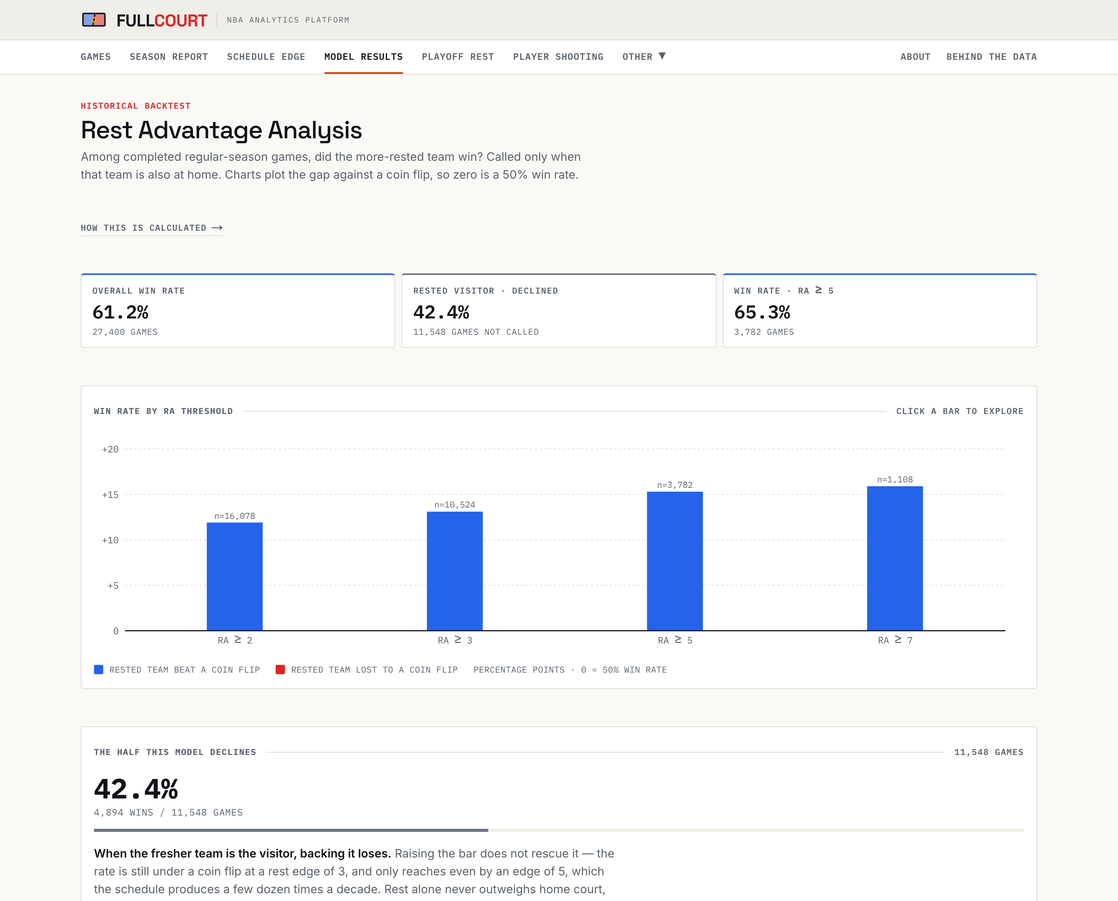
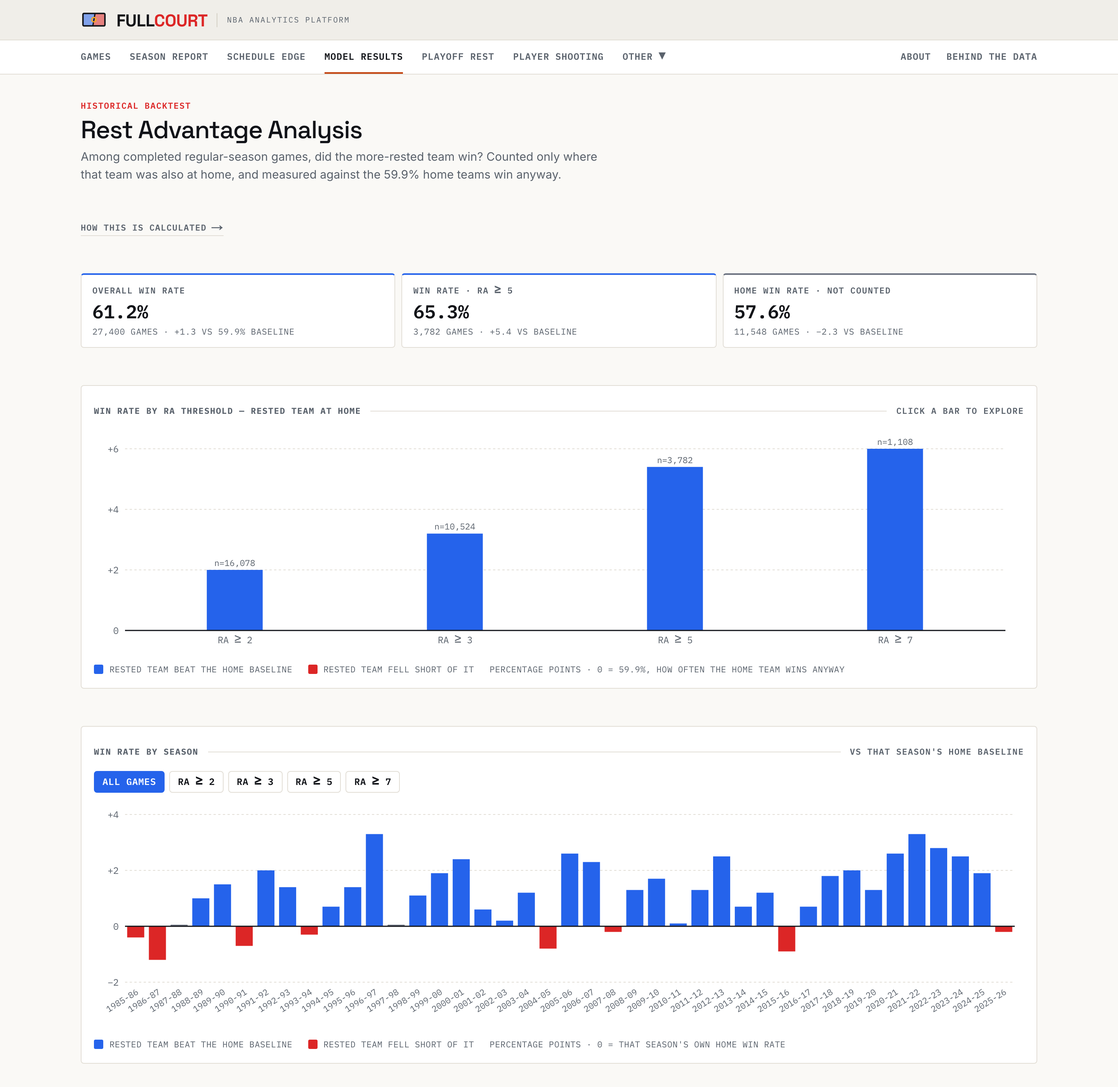
docs: carry the baseline frame through every surface that states it
The rest-advantage figures were quoted in nine committed places and
three of them were wrong in the same way: they were the ml/ harness
slice (2002-03 onward) presented as the site's published population.
Corrected to the measured figures, which are now pinned rather than
retyped.

Two claims are retired everywhere rather than restated:

  "rest alone never outweighs home court at any magnitude" — an
  absolute on a pooled 41-season rate that has drifted; a rested road
  team is near even over the last five seasons.

  "no threshold rescues it" — false as written. The road row reaches
  even at a gap of 6 and clears it at 7.

ADR 0006 gets a dated addendum rather than an in-place edit. Its own
table is correct for what the ADR decided — the fit floor is 2002 by
ADR 0003 — so the record stands and the addendum says what the figures
do and do not cover, and which two sentences did not survive.

CLAUDE.md now states the venue-baseline rule as a project rule, because
"do not reintroduce a 50% zero line" is exactly the kind of thing a
future currency pass would otherwise undo. GLOSSARY gains the three
terms this whole concept never had.

Both stale screenshots regenerated. analysis.png was showing a card
deleted two commits ago and bars measured from a coin flip; games.png
was showing the pre-bf2f459 matchup sentence. Alt text rewritten for
both from the actual captures. screenshots.mjs takes a page filter now,
[…]

diff --git a/scripts/backfill_predictions.ts b/scripts/backfill_predictions.ts
@@ -3,10 +3,10 @@
  * completed regular-season games that have fatigue scores.
  *
  * Prediction rule: the more rested team is predicted to win, but only when that team is
- * also the home side. A rested visitor is not called — rest alone never outweighs home
- * court at any magnitude the NBA schedule produces, and the old rule's road picks were
- * measured at 44.39% across 7,224 games. `isCalledSide` holds the rule and the evidence;
- * see ADR 0006.
+ * also the home side. A rested visitor is not picked — that row measures 42.4% across 11,548
+ * games, and folding home court into the score instead lands below simply backing the home
+ * team every time (96.5% coverage at 59.7%, against 59.9%). `isCalledSide` holds the rule and
+ * the evidence; see ADR 0006 and its 2026-08-06 addendum.
  *
  * Games with |differential| < 0.5 are skipped as neutral, as before.
  *

diff --git a/README.md b/README.md
@@ -18,18 +18,23 @@
 FullCourt quantifies how **travel, rest, and schedule density** shape NBA outcomes. Its flagship model assigns every team a multi-factor **fatigue score**, derives a **rest advantage** for each matchup, and backtests it against every NBA season since 1985-86.
 
 > **The finding:** where the model makes a call, the more-rested team wins the majority of games —
-> and the edge widens once the rest-advantage gap reaches **5+ points**. The call is deliberately
-> one-sided: since 2026-08-02 the model declines a game when the fresher team is the *visitor*,
-> because backing a rested road team lost, and no threshold rescued it. Every rate is
-> computed live from the database rather than typed here; as the screenshots below show, that ran
-> **61.2%** overall and **65.3%** at a 5+ gap, with the declined half published beside it at
-> **42.4%**.
+> and the gain grows as the rest-advantage gap widens, up to about **5 points**, past which it is
+> flat. The call is deliberately one-sided: since 2026-08-02 the model counts a game only when the
+> fresher team is also at home, because a rested road team still loses more often than it wins and
+> folding home court into the score instead performs worse than simply backing the home team.
+> Every rate is computed live from the database rather than typed here; as the screenshots below
+> show, that ran **61.2%** overall and **65.3%** at a 5+ gap, with the other row published beside
+> it at **42.4%**.
 >
-> Two samples get quoted for that declined half and they are not the same measurement: the
-> **44.4% across 7,224 games** in the decision record is every *decidable* game from 2002-03 on,
-> the window the weight-fitting harness was run over ([ADR 0006](docs/adr/0006-fatigue-weights-were-fitted-and-the-model-was-not-changed.md));
-> the **42.4% across 11,548** on `/analysis` is the full history back to 1985-86. Both say the
-> same thing, which is why the rule is a rule.
+> Read both against a venue baseline, never against a coin flip. Home teams win **59.9%** of all
+> games regardless of rest and road teams **40.1%**, so those rates are worth **+1.3** and
+> **+2.3** points respectively — the part attributable to rest. `/analysis` plots against that
+> baseline for exactly this reason.
+>
+> A **44.4% across 7,224 games** figure appears in [ADR 0006](docs/adr/0006-fatigue-weights-were-fitted-and-the-model-was-not-changed.md)
+> and its 2026-08-06 addendum. It is the *2002-03-onward* harness slice, not the published
+> population, and it should not be quoted as the site's figure. `src/lib/rest-split-facts.ts`,
+> pinned against a generated artifact, holds the current numbers.
 
 🔗 **Live demo:** https://fullcourt-nba.vercel.app &nbsp;·&nbsp; **Code:** https://github.com/mhju0/fullcourt
 
@@ -59,7 +64,7 @@ Eight surfaces, not nine — `/referees` is deliberately held back and has no sc
 differential, and a confidence read. Every rest-advantage number carries the historical hit
 rate and sample size of its class; matchups the model calls neutral get no claim at all.
 
-<img src="docs/screenshots/games.png" alt="The Games page for Sunday, April 12, 2026, with a BY DATE / UPCOMING toggle set to BY DATE. Three tiles read 15 games on this date, an average rest advantage of 0.8, and 0 high-confidence games. A Scope panel below holds the 2025-26 season with month buttons from October to April, April selected, and day chips 1 through 12 each captioned with its game count, the 12th selected. A banner reads that the 2025-26 season is complete and the final slate is showing, linking to the full season report. Two matchup cards follow. The first, Brooklyn Nets 101 at Toronto Raptors 136, shows fatigue bars of 3.3 and 4.4 and a rest-advantage panel giving BKN plus 1.1 with a MED CONF badge; because Brooklyn are the rested side and are the visitors, the card reads that this model declines a rested visitor, backing one having won 42.4% of the time from 11,548 games. The second, Chicago Bulls 128 at Dallas Mavericks 149, shows fatigue scores of 4.4 and 4.6, is scored EVEN 0.2 with a NEUTRAL badge, and carries no such sentence." width="900" />
+<img src="docs/screenshots/games.png" alt="The Games page for Sunday, April 12, 2026, with a BY DATE / UPCOMING toggle set to BY DATE. Three tiles read 15 games on this date, an average rest advantage of 0.8, and 0 high-confidence games. A Scope panel below holds the 2025-26 season with month buttons from October to April, April selected, and day chips 1 through 12 each captioned with its game count, the 12th selected. A banner reads that the 2025-26 season is complete and the final slate is showing, linking to the full season report. Two matchup cards follow. The first, Brooklyn Nets 101 at Toronto Raptors 136, shows fatigue bars of 3.3 and 4.4 and a rest-advantage panel giving BKN plus 1.1 with a MED CONF badge; because Brooklyn are the rested side and are the visitors, the card reads that when the fresher team is the visitor the home team has still won 57.6% of the time, from 11,548 games. The second, Chicago Bulls 128 at Dallas Mavericks 149, shows fatigue scores of 4.4 and 4.6, is scored EVEN 0.2 with a NEUTRAL badge, and carries no such sentence." width="900" />
 
 **Season Report — one season end to end.** How that year's rest call scored against the
 all-season norm, which teams actually converted a rest edge into wins, and what the schedule cost
@@ -75,11 +80,12 @@ the page.
 <img src="docs/screenshots/schedule.png" alt="Schedule Disparity for 2025-26, marked final with 1,214 of 1,230 games compared. A summary strip reads most favored plus 21 (Utah Jazz), least favored minus 17 (Boston Celtics), a spread of 38 edge games best to worst, and 942 games with an edge of which 541 were big (1.5+). Below it all 30 teams are ranked as horizontal bars diverging from a zero line, blue to the right for a favorable edge and red to the left for an unfavorable one, from Utah at plus 21 and Cleveland at plus 18, down through Sacramento at exactly zero, to Houston at minus 16 and Boston at minus 17. The two altitude teams sit high — Utah first and Denver fifth at plus 11 — because visitors to thin air carry more fatigue. A header note states the season is final with 1,214 of 1,230 games compared." width="900" />
 
 **Model Results — the full-history backtest behind the headline finding.** Win rate by rest-advantage
-threshold, plotted as the gap against a coin flip in percentage points: zero is a 50% win
-rate, so the bar's length is the measured edge. Slices the model gets backwards hang below
-the line in red.
+threshold, plotted as the gap against **what that side wins anyway** in percentage points: zero is
+the home baseline, not a coin flip, because every game counted here is one the rested team played
+at home. The bar's length is the part rest accounts for. Slices below the baseline hang under the
+line in red.
 
-<img src="docs/screenshots/analysis.png" alt="Rest Advantage Analysis. The intro reads that among completed regular-season games the model asks whether the more-rested team won, and is called only when that team is also at home. A HOW THIS IS CALCULATED link sits below it. Three summary tiles read an overall win rate of 61.2% across 27,400 games, a RESTED VISITOR · DECLINED figure of 42.4% across 11,548 games not called, and 65.3% at a rest advantage of 5 or more across 3,782 games. Below them, win rate by rest-advantage threshold is drawn as deviation columns measured from a 50% coin flip: four blue bars rise from a zero line, growing left to right from RA at least 2 to RA at least 7, each labelled with its sample size — 16,078, 10,524, 3,782 and 1,108 games. A legend states that blue means the rested team beat a coin flip and red means it lost to one. A final card, THE HALF THIS MODEL DECLINES, shows 42.4% from 4,894 wins in 11,548 games and explains that backing a fresher visitor loses, that raising the bar does not rescue it, and that rest alone never outweighs home court." width="900" />
+<img src="docs/screenshots/analysis.png" alt="Rest Advantage Analysis. The intro reads that among completed regular-season games the model asks whether the more-rested team won, counted only where that team was also at home, and measured against the 59.9% home teams win anyway. A HOW THIS IS CALCULATED link sits below it. Three summary tiles read an overall win rate of 61.2% across 27,400 games at plus 1.3 versus the 59.9% baseline; 65.3% at a rest advantage of 5 or more across 3,782 games at plus 5.4; and a HOME WIN RATE, NOT COUNTED figure of 57.6% across 11,548 games at minus 2.3, the games where the rested team was the visitor. Below them, win rate by rest-advantage threshold is drawn as deviation columns measured from the home baseline rather than from a coin flip: four blue bars rise from a zero line at plus 2, plus 3.2, plus 5.4 and plus 6, labelled with sample sizes 16,078, 10,524, 3,782 and 1,108 games. A legend states that blue means the rested team beat the home baseline, red means it fell short, and that zero is 59.9%, how often the home team wins anyway. A second chart plots all forty-one seasons against each season’s own home baseline, mostly small blue bars between zero and plus 3.5 with a handful of red ones below the line." width="900" />
 
 **Playoff Rest — what surviving a long series costs the round after.** The page leads with the
 argument, not the bracket: every playoff game after Game 1 is played on equal rest by
@@ -260,8 +266,9 @@ one exists.
 
 Two changes followed on **2026-08-02**, both on measurement rather than taste. The model
 **stopped calling a game when the fresher team is the visitor** — backing a rested road team ran
-44.4% across 7,224 games and no threshold rescued it, so rest alone never outweighs home court.
-That half is published on `/analysis` as the evidence rather than quietly dropped. And
+42.4% across 11,548 games, and folding home court into the score instead covers 96.5% of games at
+59.7%, below the 59.9% from simply backing the home team every time. That row is published on
+`/analysis` as its own row rather than quietly dropped. And
 `ALTITUDE_MULTIPLIER` rose **1.15 → 1.29**, the first ratified coefficient ever changed on
 evidence: measured on final margin, altitude is worth 1.358 points against a back-to-back's
 1.759, a ratio of 0.772 where the model was charging 0.405.

diff --git a/docs/adr/0006-fatigue-weights-were-fitted-and-the-model-was-not-changed.md b/docs/adr/0006-fatigue-weights-were-fitted-and-the-model-was-not-changed.md
@@ -255,6 +255,50 @@ The suspension of the no-fitting rule ends here. `fatigue.ts` coefficients remai
 ratified; this ADR is the record that fitting them was tried, under a protocol built to make the
 answer trustworthy, and that the answer was "the weights are not the problem".
 
+## Addendum — 2026-08-06: the away-pick evidence was re-measured, and two of its sentences do not survive
+
+Everything above stands as the record of what was decided on 2026-08-02 and why. This addendum
+corrects the *evidence* the away-pick section rests on. The decision it produced is unchanged;
+two of the sentences justifying it are not.
+
+**The table above is the 2002-03-onward slice, not the published population.** That was correct
+for this ADR — the fit floor is 2002 (ADR 0003) — but the site publishes from 1985-86, and the
+figures were quoted onward into the method page, the README, the roadmap and a code docblock as
+though they were the site's. Re-measured over the published population by
+`scripts/measure_uncalled_half.ts`, generated into `ml/rest_split_facts.json` and pinned by
+`src/lib/__tests__/rest-split-facts.test.ts`:
+
+| rested road team | n | won |
+|---|---|---|
+| any gap | 11,548 | 42.4% |
+| gap ≥ 3 | 2,056 | 43.6% |
+| gap ≥ 5 | 342 | 46.2% |
+| gap ≥ 6 | 108 | 50.0% |
+| gap ≥ 7 | 26 | 61.5% |
+
+**"Rest alone never outweighs home court at any magnitude the NBA generates" is retired.** It is
+an absolute resting on a pooled 41-season rate, and the rate has drifted: a rested road team won
+42.4% across all seasons, 47.7% across the last ten, and 49.3% across the last five. Home-court
+advantage has fallen league-wide over the same period — the per-season home win rate runs from
+67.9% in 1987-88 to 54.3% in 2023-24 — so the *lift* may be unchanged while the raw rate moves.
+That is exactly why an absolute was the wrong shape for the claim.
+
+**"No threshold rescues it" is also retired**, for a simpler reason: it is false as written. The
+row reaches even at a gap of 6 and clears it at 7. Both rungs are tiny, and the honest reading is
+the schedule running out of examples rather than a signal switching on — but the sentence claimed
+something the data does not say, and the ladder it was written from stopped at 5.
+
+**What still holds, and is the actual load-bearing argument.** Folding home court into the score
+and letting the combined number pick covers 96.5% of games at 59.7% — *below* the 59.9% you get
+by backing the home team in every one of the 47,143. Adding a constant to both sides creates no
+information. (The 58.39%/776 figures above are the 2002-03 slice; the full-population equivalents
+are 59.7% and 752.) The rule survives; only its justification needed re-basing.
+
+**Related, and larger than this ADR:** the same re-measurement established that every rate the
+site published was stated against a coin flip while every game in it was a home game. `/analysis`
+moved to a venue baseline on 2026-08-06. That is a presentation decision rather than a model one,
+so it is not an amendment here — but it is the reason this correction was found.
+
 ## Related
 
 - `docs/adr/0003-fatigue-inputs-limited-to-espn-era.md` — why the fit floor is 2002.

diff --git a/docs/GLOSSARY.md b/docs/GLOSSARY.md
@@ -16,8 +16,20 @@ _Avoid_: fatigue advantage, rest score
 A matchup whose absolute rest advantage is below `0.5`, so neither team receives a prediction from this metric. An absolute value of exactly `0.5` is a call, not neutral.
 _Avoid_: tie
 
+**Rested team at home**:
+Games where the more-rested team is also the home team. The site's published rest-advantage rate is measured on these and on nothing else. In code the predicate is `isCalledSide` (`src/lib/rest-advantage-evidence.ts`), which keeps its name on purpose — the vocabulary here is user-facing only, and a doc-currency pass must not "fix" the code to match the copy.
+_Avoid_: called games, the call, qualified games
+
+**Rested team on the road**:
+Games where the more-rested team is the visitor. Counted and published as their own row against a road baseline, never pooled into the published rate. Not a filter on the evidence: both rows appear on `/analysis` and on the method page.
+_Avoid_: rested visitor, declined games, the half this model declines
+
+**Baseline**:
+How often a side wins from that venue regardless of rest — 59.9% at home, 40.1% on the road, over every published game. Every rest-advantage rate is stated against it rather than against a coin flip, because every game the site publishes a rate for is a home game. Not a constant across time: the per-season figure runs from 67.9% in 1987-88 to 54.3% in 2023-24, which is why the season chart uses each season's own.
+_Avoid_: home-court advantage — that is the ~20-point spread between the two baselines, not either one of them
+
 **Historical backtest**:
-The regular-season evaluation of whether the team favored by rest advantage won. It excludes the **2019-20 Orlando bubble** — the 88 games played at a single site from 30 July to 11 October 2020 — and nothing else of that season; its 971 pre-suspension games are in. 2020-21 and both lockout seasons are included: short is fine, interrupted is not. Withholding a *whole* season is a separate rule belonging to Schedule Edge alone (see **Truncated season**).
+The regular-season evaluation of whether the team favored by rest advantage won, **on the games where that team was also at home** — every headline figure on the site is measured on that row alone, and read against the **baseline** rather than against 50%. It excludes the **2019-20 Orlando bubble** — the 88 games played at a single site from 30 July to 11 October 2020 — and nothing else of that season; its 971 pre-suspension games are in. 2020-21 and both lockout seasons are included: short is fine, interrupted is not. Withholding a *whole* season is a separate rule belonging to Schedule Edge alone (see **Truncated season**).
 _Avoid_: prediction accuracy test
 
 **Playoff Predictor**:

diff --git a/docs/FRONTEND.md b/docs/FRONTEND.md
@@ -839,12 +839,21 @@ onboarding dialog keeps its explicit amber rings, which are a real visible indic
 
 ### Charts (`analysis-content.tsx`)
 
-Both backtest bar charts are **deviation columns**: `toDeviation(winPct)` plots
-`winPct - 50` in percentage points, so **zero is the coin flip** and the bar's length is the
-measured edge itself. `deviationFill()` colors the two poles — `--term-blue` above,
-`--term-red` below, `--term-neutral` at exactly zero — and `ReferenceLine y={0}` is drawn
+Both backtest bar charts are **deviation columns**: `toDeviation(winPct, baselinePct)` plots
+`winPct - baselinePct` in percentage points, so **zero is the venue baseline** and the bar's
+length is the part rest accounts for. `deviationFill()` colors the two poles — `--term-blue`
+above, `--term-red` below, `--term-neutral` at exactly zero — and `ReferenceLine y={0}` is drawn
 **after** the bars as solid `--term-text` at 1.5px. That rule is the axis, not an annotation,
 which is why it is the one assertive line on the chart.
+
+**The baseline is not 50, and this is load-bearing** (2026-08-06). Every game these charts count
+is one the more-rested team played at home, and home teams win ~59.9% of all games regardless of
+rest — so a coin-flip zero credited the model with about ten points of home court it did not
+produce. The threshold chart passes `data.venueBaseline.homeWinPct`; the season chart passes each
+season's own `homeBaselinePct`, because home court ran from 67.9% in 1987-88 to 54.3% in 2023-24
+and one fixed line would misread both ends. Both legends name their zero, and both tooltips print
+the baseline on the same line as the deviation so the two cannot be read apart.
+`e2e/analysis.spec.ts` asserts the zero-line copy and that no surface says `COIN FLIP`.
 
 `deviationScale()` derives a signed domain plus evenly spaced `ticks` from the data.
 Both are required: Recharts left to improvise emitted 0/20/40/60 **plus an orphan 70**, and

diff --git a/CLAUDE.md b/CLAUDE.md
@@ -9,10 +9,21 @@ was dropped rather than copied, because that file had drifted from the code on e
 
 FullCourt models how NBA **travel, rest, and schedule density** affect game outcomes. Each team
 in a matchup gets a **fatigue score**; the differential is the **rest advantage**; the backtest
-asks whether the more-rested team actually won — counting only the games the site **calls**, which
-since 2026-08-02 means the more-rested team is also at home (`isCalledSide`,
-`src/lib/rest-advantage-evidence.ts`). Rest alone never outweighs home court at any magnitude the
-NBA produces, so a rested visitor is declined rather than picked.
+asks whether the more-rested team actually won — counting only the games where that team is also
+at home (`isCalledSide`, `src/lib/rest-advantage-evidence.ts`, since 2026-08-02). The games where
+the rested team is the visitor are counted as their own row and published in full, never pooled
+into the headline.
+
+**Every published rate is read against a venue baseline, not against a coin flip** (since
+2026-08-06). Home teams win ~59.9% of all games regardless of rest, so a headline of 61.2%
+plotted against 50% credited the model with roughly ten points of home court it did not produce.
+`AnalysisResponse.venueBaseline` carries it, and the season chart uses each season's own, because
+home court ran from 67.9% in 1987-88 to 54.3% in 2023-24. Do not reintroduce a 50% zero line.
+
+Two claims the site used to publish were measured and retired on 2026-08-06 — *"rest alone never
+outweighs home court at any magnitude"* and *"no threshold rescues it"*. Both were absolutes
+resting on a pooled 41-season rate. Do not restate either; `src/lib/rest-split-facts.ts` and its
+test hold what replaced them.
 
 - Live: https://fullcourt-nba.vercel.app · Repo: https://github.com/mhju0/fullcourt
 - Headline figures are computed live from the database and rendered on the site. Do not hand-type

diff --git a/docs/ROADMAP.md b/docs/ROADMAP.md
@@ -49,11 +49,16 @@ added alongside it.
 
 - **Rest Advantage** — the flagship regular-season fatigue model, historical backtest, game
   explorer, and upcoming-game edge view. **The model no longer calls a game when the fresher
-  team is the visitor** (2026-08-02): backing a rested road team measured 44.4% across 7,224
-  games and no threshold rescues it, so rest alone never outweighs home court. The declined half
-  is published on `/analysis` as the evidence rather than dropped. Same day, `ALTITUDE_MULTIPLIER`
-  rose 1.15 → 1.29, the first ratified coefficient changed on measurement. See
-  [ADR 0006](adr/0006-fatigue-weights-were-fitted-and-the-model-was-not-changed.md).
+  team is the visitor** (2026-08-02): backing a rested road team measures 42.4% across 11,548
+  games, and folding home court into the score instead covers 96.5% of games at 59.7% — below
+  the 59.9% from backing the home team every time. That row is published on `/analysis` as its
+  own row rather than dropped. Same day, `ALTITUDE_MULTIPLIER` rose 1.15 → 1.29, the first
+  ratified coefficient changed on measurement.
+  **Every published rate is read against a venue baseline rather than a coin flip**
+  (2026-08-06): home teams win 59.9% of all games regardless of rest, so the 61.2% headline is
+  worth +1.3 points, not +11.2. See
+  [ADR 0006](adr/0006-fatigue-weights-were-fitted-and-the-model-was-not-changed.md) and its
+  2026-08-06 addendum.
 - **Availability Cost** — what a missing rotation player costs, in the same points of margin as
   the schedule terms: losing a team's best player is worth 2.86, against home court's 2.82.
   Retrospective by construction, so no live lineup feed and no database table — a generated

diff --git a/docs/API.md b/docs/API.md
@@ -175,13 +175,23 @@ the `predictions` table.**
   re-read and re-reduced the whole set. The cache is per server instance and bounded, because
   `seasonMinRA` arrives from a query string.
 - **Success:** `{ data: AnalysisResponse, error: null }`:
-  - `totalGames`, `overallWins`, `overallWinRate`
+  - `totalGames`, `overallWins`, `overallWinRate` — the games where the rested team was **also
+    at home**, which is narrower than the population on both counts
   - `thresholds: ThresholdBucket[]` (one per `[2,3,5,7]`: `threshold, games, restedTeamWins,
     winPct`)
   - `homeAwayBreakdown` (`homeTeamMoreRested` / `awayTeamMoreRested`: `games, restedTeamWins,
     winPct`)
-  - `seasonWinRates` (per season: `season, games, restedTeamWins, winPct`)
+  - `venueBaseline` (`games, homeWins, homeWinPct, roadWinPct`)
+  - `seasonWinRates` (per season: `season, games, restedTeamWins, winPct, homeBaselinePct`)
 - All `winPct` values are 0–100 with one decimal.
+- **`venueBaseline` counts a wider population than everything else in the payload** (added
+  2026-08-06). It is tallied over every scored game — including the neutral ones the rest
+  figures drop and the road-rested ones the headline does not publish — because it answers
+  "what does this side win *anyway*", and a baseline drawn from the same games as the numerator
+  would already carry the effect it exists to subtract. `roadWinPct` comes from the counts, not
+  from `100 − homeWinPct`. `seasonWinRates[].homeBaselinePct` is the same figure per season,
+  which is not a constant: it runs from 67.9% in 1987-88 to 54.3% in 2023-24.
+  Every rate on `/analysis` is rendered against these rather than against 50%.
 
 ---
 

diff --git a/docs/TESTING_AND_CICD.md b/docs/TESTING_AND_CICD.md
@@ -163,9 +163,11 @@ back on expand.
 >   regression to per-month fetching fails rather than passing quietly; the other steps the
 >   arrows past the end of December and asserts the `JAN` tab takes `aria-pressed="true"`,
 >   covering the derived month across a boundary.
-> - **`analysis.spec.ts`** — terminal markup: heading "Rest Advantage Analysis" plus the
->   section dividers "WIN RATE BY RA THRESHOLD", "HOME TEAM MORE RESTED", and
->   "WIN RATE BY SEASON" (no `text-7xl` hero).
+> - **`analysis.spec.ts`** — terminal markup: heading "Rest Advantage Analysis", the
+>   "HOME WIN RATE · NOT COUNTED" tile, and the section dividers "WIN RATE BY RA THRESHOLD …"
+>   and "WIN RATE BY SEASON" (no `text-7xl` hero). It also guards the **frame**: both
+>   zero-line legends, and that the page nowhere says `COIN FLIP` — a regression to a 50%
+>   baseline would credit the model with roughly ten points of home court it did not produce.
 > - **`onboarding.spec.ts`** — a fresh browser sees the first-visit guide, which enumerates
 >   `PRIMARY_NAV_ITEMS` (the six direct tabs plus the three behind `OTHER`); the spec spot-checks
 >   five of those rows by accessible name rather than pinning a count, so adding a surface does
